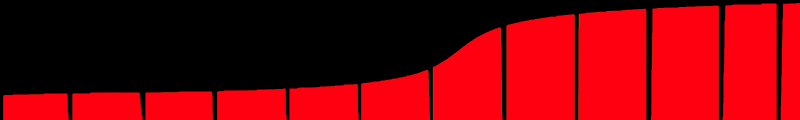
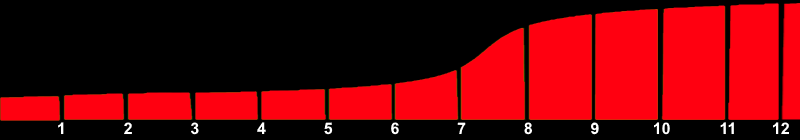
Fixed updating(was totally broken) and implemented way prettier RPM gauge

Changed region(s): [[0.0, 0.0, 1.0, 1.0]]

diff --git a/DashGUI.py b/DashGUI.py
@@ -2,7 +2,6 @@ import traceback
 from tkinter import *
 
 
-
 class DashGUI:
     def __init__(self, master):
         self.data = None
@@ -11,7 +10,7 @@ class DashGUI:
         master.title("SR19 GUI")
         master.geometry('{}x{}'.format(800, 480))
         master.resizable(width=False, height=False)
-        self.rpmpng = PhotoImage(file="RPM GuageWithNum.png")
+        self.rpmpng = PhotoImage(file="RPM Guage.png")
         self.rpmmax = 12400
         # CONFIGURATION
         self.upperLeftDict = "coolantTemperature"
@@ -20,11 +19,11 @@ class DashGUI:
         self.lowerLeftDict = "afr"
         self.lowerLeftLabel = 'AFR'
         self.lowerLeftValue = 0.0
-        self.upperCentreDict = "rpm"
-        self.upperCentreLabel = 'RPM'
+        self.upperCentreDict = "speed"
+        self.upperCentreLabel = 'SPEED'
         self.upperCentreValue = 0.0
-        self.lowerCentreDict = "speed"
-        self.lowerCentreLabel = 'SPEED'
+        self.lowerCentreDict = "battery"
+        self.lowerCentreLabel = 'BATT'
         self.lowerCentreValue = 0.0
         self.upperRightDict = "oilTemperature"
         self.upperRightLabel = 'OIL T'
@@ -33,16 +32,14 @@ class DashGUI:
         self.lowerRightLabel = 'FUEL T'
         self.lowerRightValue = 0.0
 
-
-
     def init_all_frames(self, master):
         self.masterFrame = Frame(master, width=800, height=480, bd=0, relief=FLAT, background='black')
         self.masterFrame.grid(column=0, row=0, columnspan=3, rowspan=2, sticky=N + E + S + W)
 
-        self.rpmFrame = Frame(self.masterFrame, width=800, height=122, bd=0, relief=FLAT, background='black')
+        self.rpmFrame = Frame(self.masterFrame, width=800, height=142, bd=0, relief=FLAT, background='black')
         self.rpmFrame.grid(column=0, row=0, columnspan=3, sticky=W)
 
-        self.canvas = Canvas(self.rpmFrame, width=800, height=122, highlightthickness=0)
+        self.canvas = Canvas(self.rpmFrame, width=800, height=142, highlightthickness=0)
         self.canvas.grid(column=0, row=0, columnspan=3, sticky=W)
         self.canvas.create_line(0, 0, 200, 100, fill="red", dash=(4, 4))
 
@@ -62,10 +59,10 @@ class DashGUI:
         width = -1
         height = 1
         font = 'Arial'
-        padx = 60
+        padx = 50
         pady = 5
         smallFontSize = 18
-        bigFontSize = 72
+        bigFontSize = 60
         # self.canvas.create_rectangle(0, 0, 800, 40, fill='black')
 
         self.bottomBar = Button(self.bottomFrame, width=113, height=7, background='black')
@@ -86,12 +83,12 @@ class DashGUI:
                                       background='black',
                                       foreground='white')
         self.upperCentreLabel.grid(column=0, row=0, sticky=N)
-        self.upperCentreLabel.config(font=(font, smallFontSize+14))
+        self.upperCentreLabel.config(font=(font, smallFontSize))
         self.upperCentreValue = Label(self.centreFrame, text=self.upperCentreValue, height=height, pady=pady, padx=padx,
                                       background='black',
                                       foreground='white')
         self.upperCentreValue.grid(column=0, row=1, sticky=N)
-        self.upperCentreValue.config(font=(font, bigFontSize))
+        self.upperCentreValue.config(font=(font, bigFontSize + 12))
 
         self.upperRightLabel = Label(self.rightFrame, text=self.upperRightLabel, width=width, padx=padx, pady=pady,
                                      background='black',
@@ -138,45 +135,49 @@ class DashGUI:
 
     def init_rpmbar(self, master):
         pass
-        self.rpmBarBG = self.canvas.create_rectangle(0, 0, 800, 120, fill='black')
+        self.rpmBarBG = self.canvas.create_rectangle(0, 0, 800, 140, fill='black')
         self.rpmBar = self.canvas.create_rectangle(0, 0, 800, 120, fill='black')
+        self.rpmVal = self.canvas.create_text(160, 40, fill='white', font=('arial', 60), text='0')
 
         # self.rpmBar.grid(column=0, row=0, columnspan=3, sticky=W)
         # self.canvas.tag_lower(self.rpmBar)
 
     def draw_aesthetics(self, master):
-        self.rpmimage = self.canvas.create_image(400,60, image=self.rpmpng)
+        self.rpmimage = self.canvas.create_image(400, 70, image=self.rpmpng)
         # self.circle = self.canvas.create_oval(-200, 20, 1600, 160, fill='green', outline='green')
-        self.blocker1 = self.canvas.create_rectangle(0, 120, 800, 360, fill='black', outline='black')
+        self.blocker1 = self.canvas.create_rectangle(0, 160, 800, 360, fill='black', outline='black')
         self.canvas.tag_raise(self.rpmBar)
+        self.canvas.tag_raise(self.rpmVal)
 
     def updateRPM(self, value):
         # TODO: FIX Update
-        self.canvas.coords(self.rpmBar, round(value), 0, round(value / 111) + 800, 120)
+        self.canvas.coords(self.rpmBar, round((value * 800 / 12500)), 0, 800, 120)
+        # self.rpmVal.text = str(round(value))
+        self.canvas.itemconfigure(self.rpmVal, text=str(round(int((value + 50) / 100) * 100)))  # Rounding
 
     def updateUpLeft(self, value):
         # TODO: FIX Update
-        self.upperLeftValue = value
+        self.upperLeftValue['text'] = round(value)
 
     def updateLowLeft(self, value):
         # TODO: FIX Update
-        self.lowerLeftValue = value
+        self.lowerLeftValue['text'] = round(value, 1)
 
     def updateUpCen(self, value):
         # TODO: FIX Update
-        self.upperCentreValue = value
+        self.upperCentreValue['text'] = round(value)
 
     def updateLowCen(self, value):
         # TODO: FIX Update
-        self.lowerCentreValue = value
+        self.lowerCentreValue['text'] = round(value, 1)
 
     def updateUpRight(self, value):
         # TODO: FIX Update
-        self.upperRightValue = value
+        self.upperRightValue['text'] = round(value)
 
     def updateLowRight(self, value):
         # TODO: FIX Update
-        self.lowerRightValue = value
+        self.lowerRightValue['text'] = round(value)
 
     def greet(self):
         print("Greetings!")
@@ -190,4 +191,3 @@ class DashGUI:
         self.updateLowCen(data[self.lowerCentreDict])
         self.updateUpRight(data[self.upperRightDict])
         self.updateLowRight(data[self.lowerRightDict])
-

diff --git a/Launcher.py b/Launcher.py
@@ -20,12 +20,12 @@ class Launcher:
         self.connected = False
         self.publisher_loop = None
         self.publisher = None
-        self.data = {'timestamp': 0, 'interval': 0, 'battery': 0, 'accelX': 0, 'accelY': 0, 'accelZ': 0, 'yaw': 0,
+        self.data = {'timestamp': 0, 'interval': 0, 'battery': 12.3, 'accelX': 0, 'accelY': 0, 'accelZ': 0, 'yaw': 0,
                 'pitch': 0,
-                'roll': 0, 'rpm': 0, 'map': 0, 'tps': 0, 'oilPressure': 0, 'afr': 0, 'coolantTemperature': 0, 'iat': 0,
-                'oilTemperature': 0, 'gear': 0, 'speed': 0, 'frontLeft': 0, 'frontRight': 0, 'rearLeft': 0,
+                'roll': 0, 'rpm': 000, 'map': 0, 'tps': 0, 'oilPressure': 0, 'afr': 14.7, 'coolantTemperature': 115, 'iat': 0,
+                'oilTemperature': 111, 'gear': 0, 'speed': 120, 'frontLeft': 0, 'frontRight': 0, 'rearLeft': 0,
                 'rearRight': 0,
-                'latitude': 0, 'longitude': 0, 'injectorPW': 0, 'fuelTemp': 0, 'baro': 0, 'altitude': 0, 'session': 0,
+                'latitude': 0, 'longitude': 0, 'injectorPW': 0, 'fuelTemp': 12, 'baro': 0, 'altitude': 0, 'session': 0,
                 'lambda': 0}
         self.start_time = 0
         self.connectToDAQ()
@@ -82,12 +82,13 @@ class Launcher:
         # DAQ is not connected. Continuing trying until connection established
         # TODO: COMMENT BEFORE DEPLOYING ON CAR
         """ START DEBUGGING """
-        self.data["rpm"] = self.data["rpm"] + 1
-        self.data["coolantTemperature"] = self.data["coolantTemperature"] + 1
-        self.data["afr"] = self.data["afr"] + 1
-        self.data["speed"] = self.data["speed"] + 1
-        self.data["oilTemperature"] = self.data["oilTemperature"] + 1
-        self.data["fuelTemp"] = self.data["fuelTemp"] + 1
+        self.data["rpm"] = self.data["rpm"]+40
+        self.data["coolantTemperature"] = self.data["coolantTemperature"]
+        self.data["afr"] = self.data["afr"]
+        self.data["speed"] = self.data["speed"]
+        self.data["battery"] = self.data["battery"]
+        self.data["oilTemperature"] = self.data["oilTemperature"]
+        self.data["fuelTemp"] = self.data["fuelTemp"]
         self.dash.update(self.data)
         self.root.update()
         """" END DEBUGGING """
